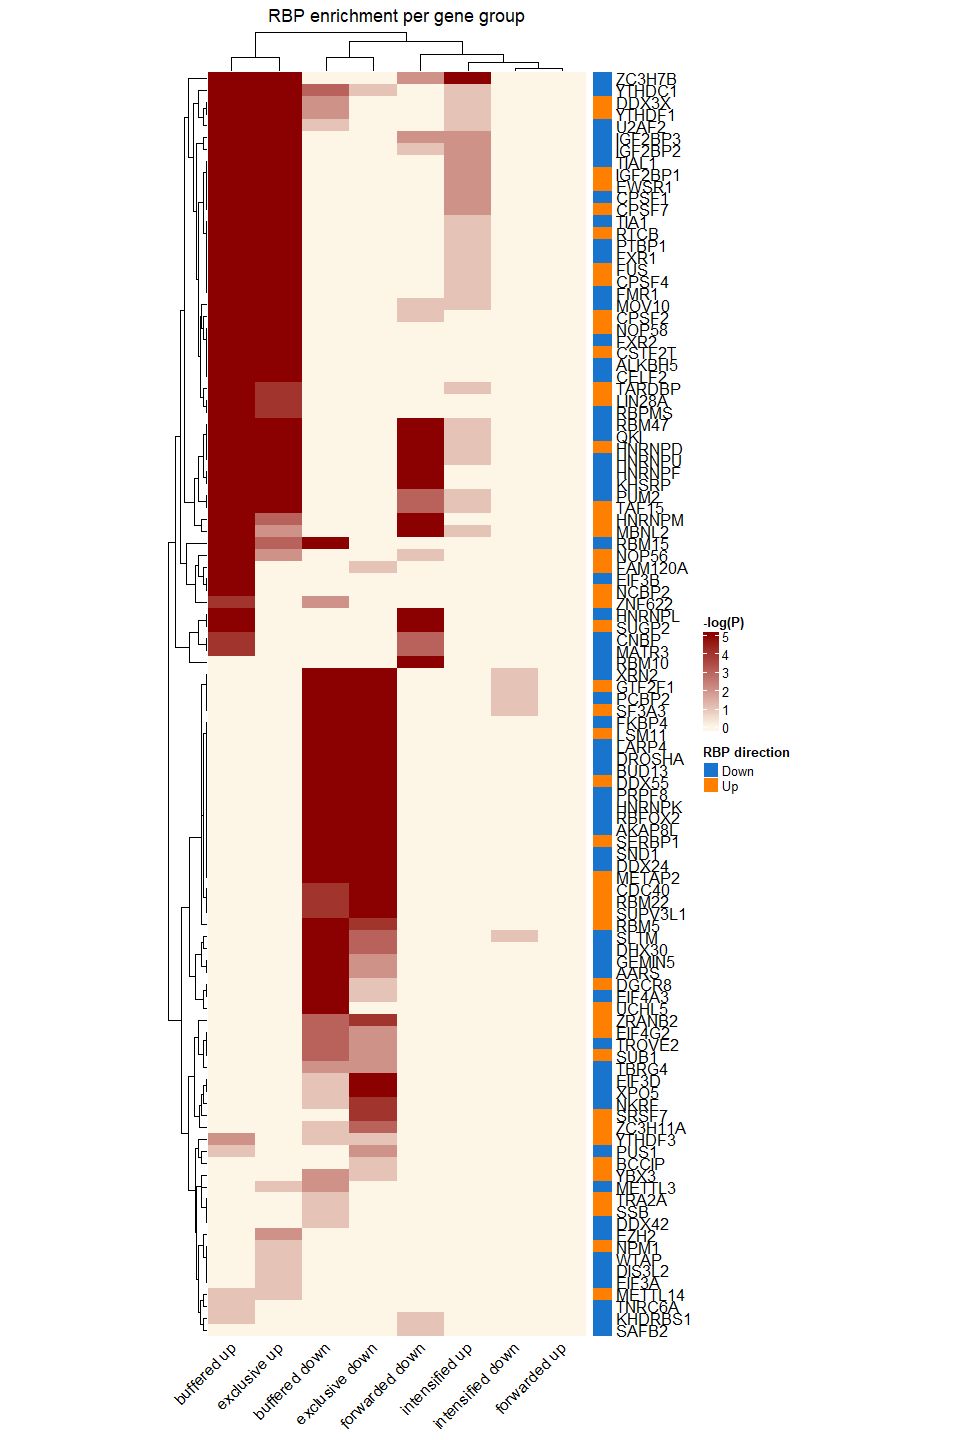
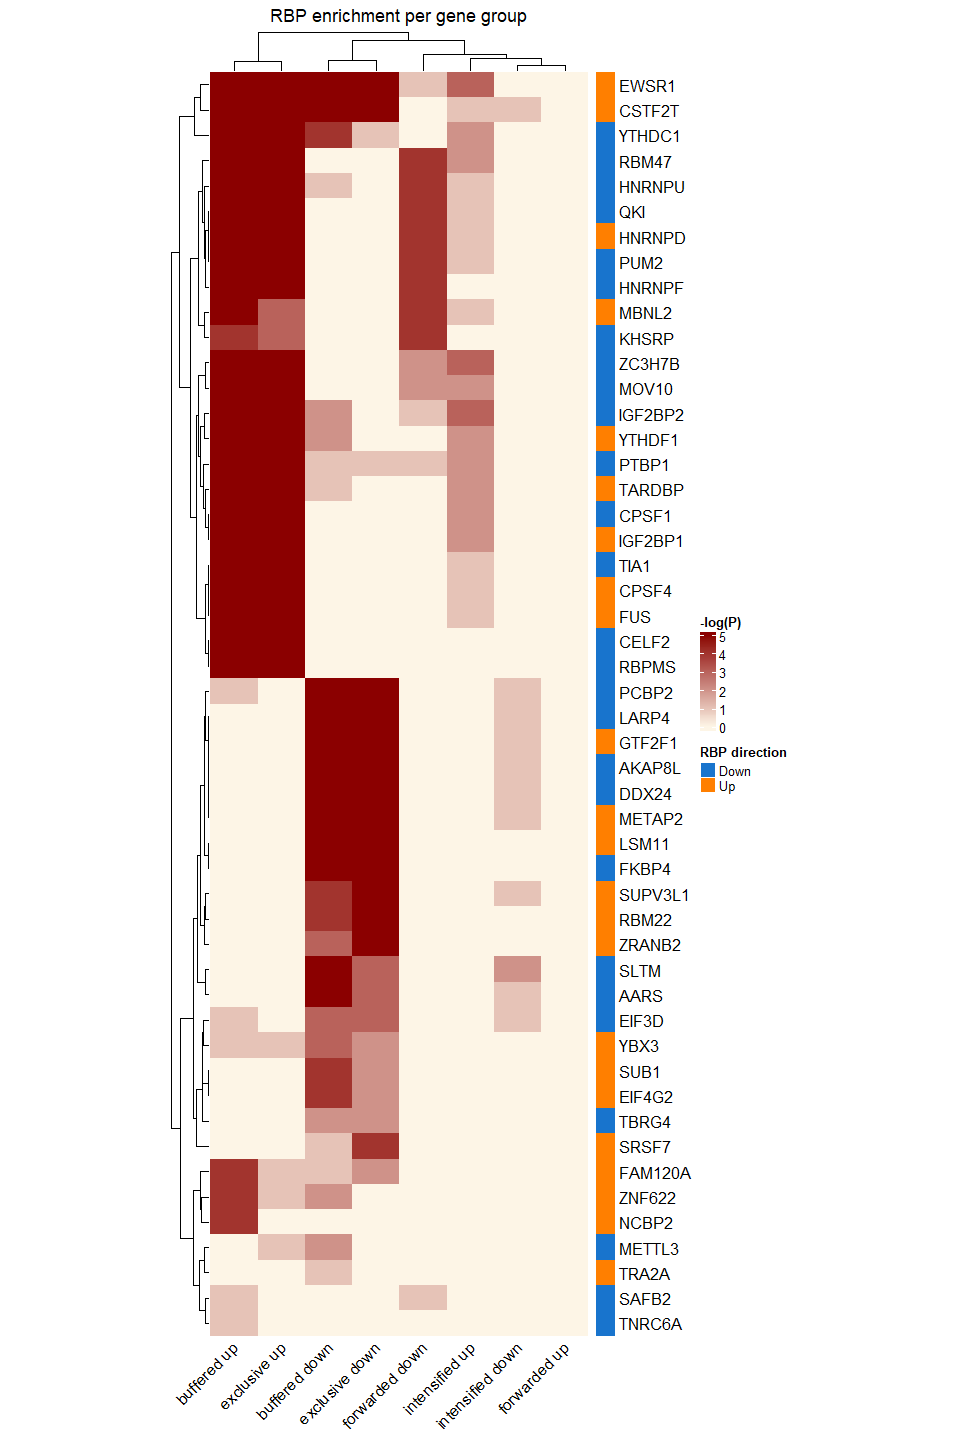
Last knit 01/12

Changed region(s): [[0.1562, 0.0, 0.5938, 1.0], [0.5938, 0.0312, 0.8125, 0.9375], [0.5, 0.4375, 0.5625, 0.7188]]

diff --git a/README.md b/README.md
@@ -147,13 +147,13 @@ data("ribo_lfc")
 data("tpm_ribo")
 
 head(ribo_lfc)
-#>                          geneID IDENTIFIER  FoldChange
-#> ENSG00000000003 ENSG00000000003     TSPAN6  0.36690410
-#> ENSG00000000419 ENSG00000000419       DPM1  0.10266923
-#> ENSG00000000457 ENSG00000000457      SCYL3 -0.42380808
-#> ENSG00000000971 ENSG00000000971        CFH -0.21626115
-#> ENSG00000001036 ENSG00000001036      FUCA2 -0.04897555
-#> ENSG00000001084 ENSG00000001084       GCLC -0.10033803
+#>                          geneID IDENTIFIER FoldChange
+#> ENSG00000000003 ENSG00000000003     TSPAN6  0.3669041
+#> ENSG00000000419 ENSG00000000419       DPM1  0.1026692
+#> ENSG00000000457 ENSG00000000457      SCYL3 -0.4238081
+#> ENSG00000000971 ENSG00000000971        CFH -0.2162611
+#> ENSG00000001084 ENSG00000001084       GCLC -0.1003380
+#> ENSG00000001461 ENSG00000001461     NIPAL3 -0.3866424
 #head(tpm_ribo)
 
 # If you want to input your own data
@@ -181,8 +181,8 @@ One dataframe per gene group containing the RBP and statistical
 information calculated during the analysis such as p-value and z-score.
 
 ``` r
-data("Res_Encode")
-data("Res_Postar")
+data("res_Encode")
+data("res_Postar")
 head(res_Encode[[1]])
 #>       RBP real_overlap simulated_overlap_mean simulated_overlap_sd          z
 #> 1 ZC3H11A          268              282.41101            12.590167 -1.1446242
@@ -205,7 +205,8 @@ dataframe and only keep RBPs that are significant in at least one gene
 group.
 
 ``` r
-res=CLIPreg::combine(res1=res_Encode,res2=res_Postar)
+
+res=CLIPreg::combine(res1=res_Encode,res2=res_Postar,FDR=0.1)
 ```
 
 Extract the RBP LFC from the RIBO\_LFC and keep only detected RBPs in
@@ -250,8 +251,8 @@ A bubble plot can be generated only if the gene groups are the output of
 DeltaTE program.
 
 ``` r
-# Bubble plot gene_groups if gene_groups are from DeltaTE
-BubbleRBPs(res = res,gene_groups = gene_groups,rbp_lfc = rbp_lfc)
+# Bubble plot gene_groups if gene_groups are from DeltaTE. FDR has to be lower or equal to the FDR put in CLIPreg::combine() step
+BubbleRBPs(res = res,gene_groups = gene_groups,rbp_lfc = rbp_lfc,FDR=0.1)
 ```
 
 ![](man/figures/README-Bubble%20plot-1.png)<!-- -->
